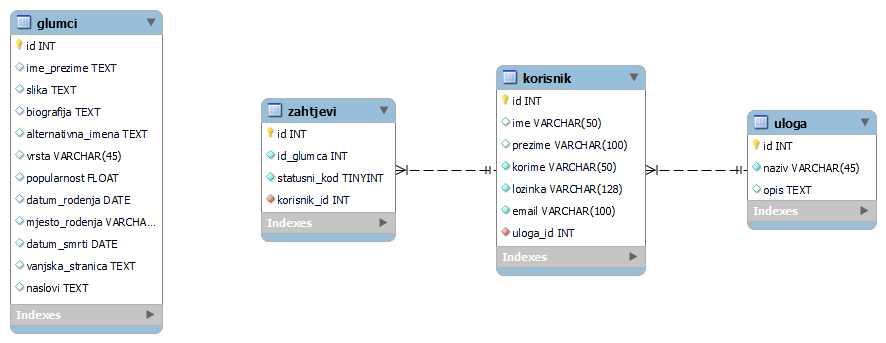
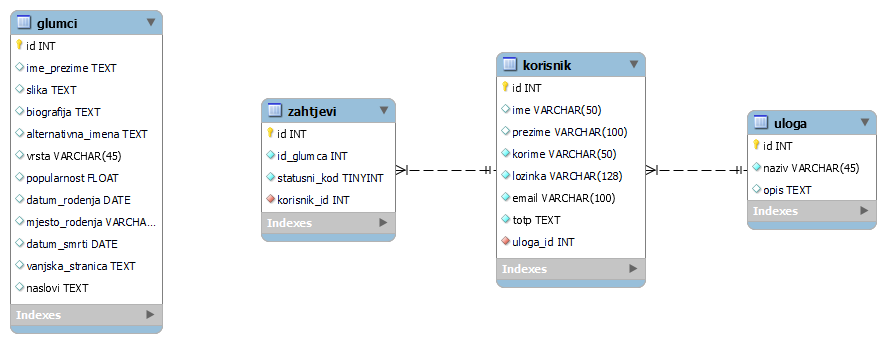
TOTP implementiran

Changed region(s): [[0.5485, 0.1458, 0.7314, 0.8455]]

diff --git a/aplikacija/htmlUpravitelj.js b/aplikacija/htmlUpravitelj.js
@@ -1,5 +1,5 @@
 const ds = require("fs/promises");
-//const totp = require("./moduli/totp.js");
+const totp = require("./moduli/totp.js");
 const Autentifikacija = require("./autentifikacija.js");
 
 class HtmlUpravitelj {
@@ -14,12 +14,20 @@ class HtmlUpravitelj {
 
 	prijava = async function (zahtjev, odgovor) {
 		let greska = "";
+		// let url = "http://localhost:10000/rest/korisnici/";
 		if (zahtjev.method == "POST") {
 			var korime = zahtjev.body.korime;
 			var lozinka = zahtjev.body.lozinka;
 			var korisnik = await this.auth.prijaviKorisnika(korime, lozinka);
 			korisnik = JSON.parse(korisnik);
 			if (korisnik) {
+				// let podaci = await fetch(url + korime);
+				// let parsiraniPodaci = await podaci.json();
+				// let totpKljuc = parsiraniPodaci.totp;
+				// let totpKod = zahtjev.body.totp;
+				// if (!totp.provjeriTOTP(totpKod, totpKljuc)) {
+				// 	greska = "TOTP nije dobar!";
+				// } else {
 				console.log("Prijava uspješna!");
 				console.log(korisnik);
 				zahtjev.session.korisnik = korisnik.ime + " " + korisnik.prezime;
@@ -28,17 +36,6 @@ class HtmlUpravitelj {
 				zahtjev.session.uloga_id = korisnik.uloga_id;
 				odgovor.redirect("/");
 				return;
-
-				// let totpKljuc = "ABDC";
-				// let totpKod = zahtjev.body.totp;
-				// if (!totp.provjeriTOTP(totpKod, totpKljuc)) {
-				// 	greska = "TOTP nije dobar!";
-				// } else {
-				// 	console.log(korisnik);
-				// 	zahtjev.session.korisnik = korisnik.ime + " " + korisnik.prezime;
-				// 	zahtjev.session.korime = korisnik.korime;
-				// 	odgovor.redirect("/");
-				// 	return;
 				// }
 			} else {
 				greska = "Netocni podaci!";
@@ -51,18 +48,20 @@ class HtmlUpravitelj {
 
 	registracija = async function (zahtjev, odgovor) {
 		console.log(zahtjev.body);
-		let greska = "";
+		let poruka = "";
 		if (zahtjev.method == "POST") {
 			let uspjeh = await this.auth.dodajKorisnika(zahtjev.body);
 			if (uspjeh) {
-				odgovor.redirect("/prijava");
-				return;
+				poruka =
+					"Vaš tajni TOTP ključ (molimo Vas da ga spremite prije nastavka): " +
+					uspjeh;
+				console.log(totp);
 			} else {
-				greska = "Dodavanje nije uspjelo provjerite podatke!";
+				poruka = "Dodavanje nije uspjelo provjerite podatke!";
 			}
 		}
 
-		let registracija = await ucitajStranicu("registracija", greska);
+		let registracija = await ucitajStranicu("registracija", poruka);
 		odgovor.send(registracija);
 	};
 
@@ -76,8 +75,6 @@ class HtmlUpravitelj {
 	};
 
 	korisnici = async function (zahtjev, odgovor) {
-		// console.log(zahtjev.session.korime);
-		// console.log(zahtjev.session.uloga_id);
 		if (!zahtjev.session.korime) {
 			odgovor.status(403);
 			odgovor.json({ pogreska: "Zabranjen pristup!" });

diff --git a/aplikacija/autentifikacija.js b/aplikacija/autentifikacija.js
@@ -1,6 +1,6 @@
 const kodovi = require("./moduli/kodovi.js");
 const portRest = 10000;
-//const totp = require("./moduli/totp.js");
+const totp = require("./moduli/totp.js");
 class Autentifikacija {
 	async dodajKorisnika(korisnik) {
 		let tijelo = {
@@ -9,10 +9,11 @@ class Autentifikacija {
 			lozinka: kodovi.kreirajSHA256(korisnik.lozinka, "sol"),
 			email: korisnik.email,
 			korime: korisnik.korime,
+			totp: korisnik.totp,
 		};
 
-		// let tajniTOTPkljuc = totp.kreirajTajniKljuc(korisnik.korime);
-		// tijelo["TOTPkljuc"] = tajniTOTPkljuc;
+		let tajniTOTPkljuc = totp.kreirajTajniKljuc(korisnik.korime);
+		tijelo["totp"] = tajniTOTPkljuc;
 
 		let zaglavlje = new Headers();
 		zaglavlje.set("Content-Type", "application/json");
@@ -22,18 +23,23 @@ class Autentifikacija {
 			body: JSON.stringify(tijelo),
 			headers: zaglavlje,
 		};
-		let odgovor = await fetch(
-			`http://localhost:${portRest}/rest/korisnici`,
-			parametri
-		);
-
-		if (odgovor.status == 200) {
-			console.log("Korisnik kreiran!");
-			return true;
-		} else {
-			console.log(odgovor.status);
-			console.log(await odgovor.text());
-			return false;
+		if (
+			tijelo["lozinka"].length > 0 &&
+			tijelo["korime"].length > 0 &&
+			tijelo["email"].length > 0
+		) {
+			let odgovor = await fetch(
+				`http://localhost:${portRest}/rest/korisnici`,
+				parametri
+			);
+			if (odgovor.status == 200) {
+				console.log("Korisnik kreiran!");
+				return tijelo.totp;
+			} else {
+				console.log(odgovor.status);
+				console.log(await odgovor.text());
+				return false;
+			}
 		}
 	}
 

diff --git a/aplikacija/moduli/totp.js b/aplikacija/moduli/totp.js
@@ -1,23 +1,22 @@
-const totp = require("totp-generator")
-const kodovi = require("./kodovi.js")
-const base32  = require('base32-encoding')
+const totp = require("totp-generator");
+const kodovi = require("./kodovi.js");
+const base32 = require("base32-encoding");
 
-exports.kreirajTajniKljuc = function(korime){
-	let tekst = korime + new Date() + kodovi.dajNasumceBroj(10000000,90000000);
+exports.kreirajTajniKljuc = function (korime) {
+	let tekst = korime + new Date() + kodovi.dajNasumceBroj(10000000, 90000000);
 	let hash = kodovi.kreirajSHA256(tekst);
-	let tajniKljuc = base32.stringify(hash,"ABCDEFGHIJKLMNOPRSTQRYWXZ234567");
+	let tajniKljuc = base32.stringify(hash, "ABCDEFGHIJKLMNOPRSTQRYWXZ234567");
 	return tajniKljuc.toUpperCase();
-}
+};
 
-exports.provjeriTOTP = function(uneseniKod,tajniKljuc){
+exports.provjeriTOTP = function (uneseniKod, tajniKljuc) {
 	const kod = totp(tajniKljuc, {
 		digits: 6,
 		algorithm: "SHA-512",
-		period: 60
+		period: 60,
 	});
 	console.log(kod);
-	if(uneseniKod == kod)
-		return true;
-		
-    return false;
-}
+	if (uneseniKod == kod) return true;
+
+	return false;
+};

diff --git a/aplikacija/js/korisnici.js b/aplikacija/js/korisnici.js
@@ -21,7 +21,7 @@ function prikaziKorisnike(korisnici) {
 	let glavna = document.getElementById("sadrzaj");
 	let tablica = "<table border=1>";
 	tablica +=
-		"<tr><th>Ime</th><th>Prezime</th><th>Korisničko ime</th><th>Email</th><th>Uloga korisnika</th></tr>";
+		"<tr><th>Ime</th><th>Prezime</th><th>Korisničko ime</th><th>Email</th><th>Uloga korisnika</th><th>TOTP ključ</th></tr>";
 	for (let k of korisnici) {
 		tablica += "<tr>";
 		tablica += "<td>" + k.ime + "</td>";
@@ -29,6 +29,7 @@ function prikaziKorisnike(korisnici) {
 		tablica += "<td>" + k.korime + "</td>";
 		tablica += "<td>" + k.email + "</td>";
 		tablica += "<td>" + k.uloga_id + "</td>";
+		tablica += "<td>" + k.totp + "</td>";
 		tablica += "</tr>";
 	}
 	tablica += "</table>";

diff --git a/servis/korisnikDAO.js b/servis/korisnikDAO.js
@@ -24,13 +24,14 @@ class KorisnikDAO {
 
 	dodaj = async function (korisnik) {
 		console.log(korisnik);
-		let sql = `INSERT INTO korisnik (ime,prezime,lozinka,email,korime,uloga_id) VALUES (?,?,?,?,?,?)`;
+		let sql = `INSERT INTO korisnik (ime,prezime,korime,lozinka,email,totp,uloga_id) VALUES (?,?,?,?,?,?,?)`;
 		let podaci = [
 			korisnik.ime,
 			korisnik.prezime,
+			korisnik.korime,
 			korisnik.lozinka,
 			korisnik.email,
-			korisnik.korime,
+			korisnik.totp,
 			2,
 		];
 		await this.baza.izvrsiUpit(sql, podaci);

diff --git a/aplikacija/html/prijava.html b/aplikacija/html/prijava.html
@@ -17,8 +17,8 @@
             <input name="korime" type="text" />
             <label for="lozinka">Lozinka</label>
             <input name="lozinka" type="password" />
-            <!-- <label for="totp">TOTP</label>
-            <input name="totp" type="text" /> -->
+            <label for="totp">TOTP</label>
+            <input name="totp" type="text" />
             <input type="submit" value="Prijavi se" />
         </form>
     </main>

diff --git a/dokumentacija/dokumentacija.html b/dokumentacija/dokumentacija.html
@@ -92,7 +92,7 @@
                 <tr>
                     <td>Gost</td>
                     <td>Prijava, Odjava, Registracija</td>
-                    <td>Potrebno dodati TOTP</td>
+                    <td>Napravljeno</td>
                 </tr>
                 <tr>
                     <td>Korisnik</td>

diff --git a/aplikacija/html/registracija.html b/aplikacija/html/registracija.html
@@ -28,7 +28,7 @@
             <br>
             <label for="email">email</label>
             <input type="mail" name="email" id="email" />
-            <br>
+            <br><br>
             <input type="submit" value="Registriraj" />
         </form>
     </main>

diff --git a/aplikacija/js/registracija.js b/aplikacija/js/registracija.js
@@ -1,1 +1,3 @@
-window.addEventListener("load", async () => {});
+window.addEventListener("load", async () => {
+	poruka = document.getElementById("poruka");
+});
